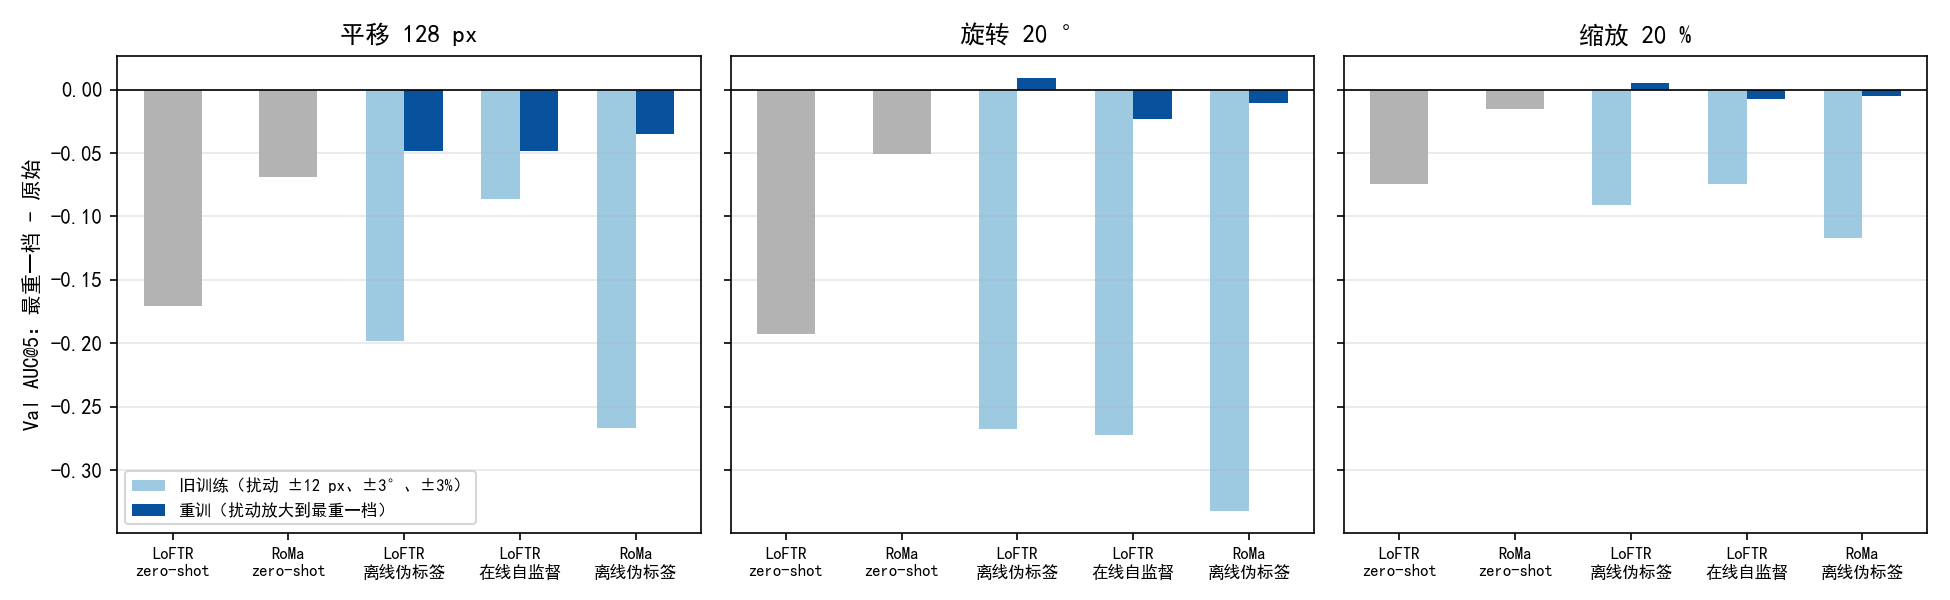
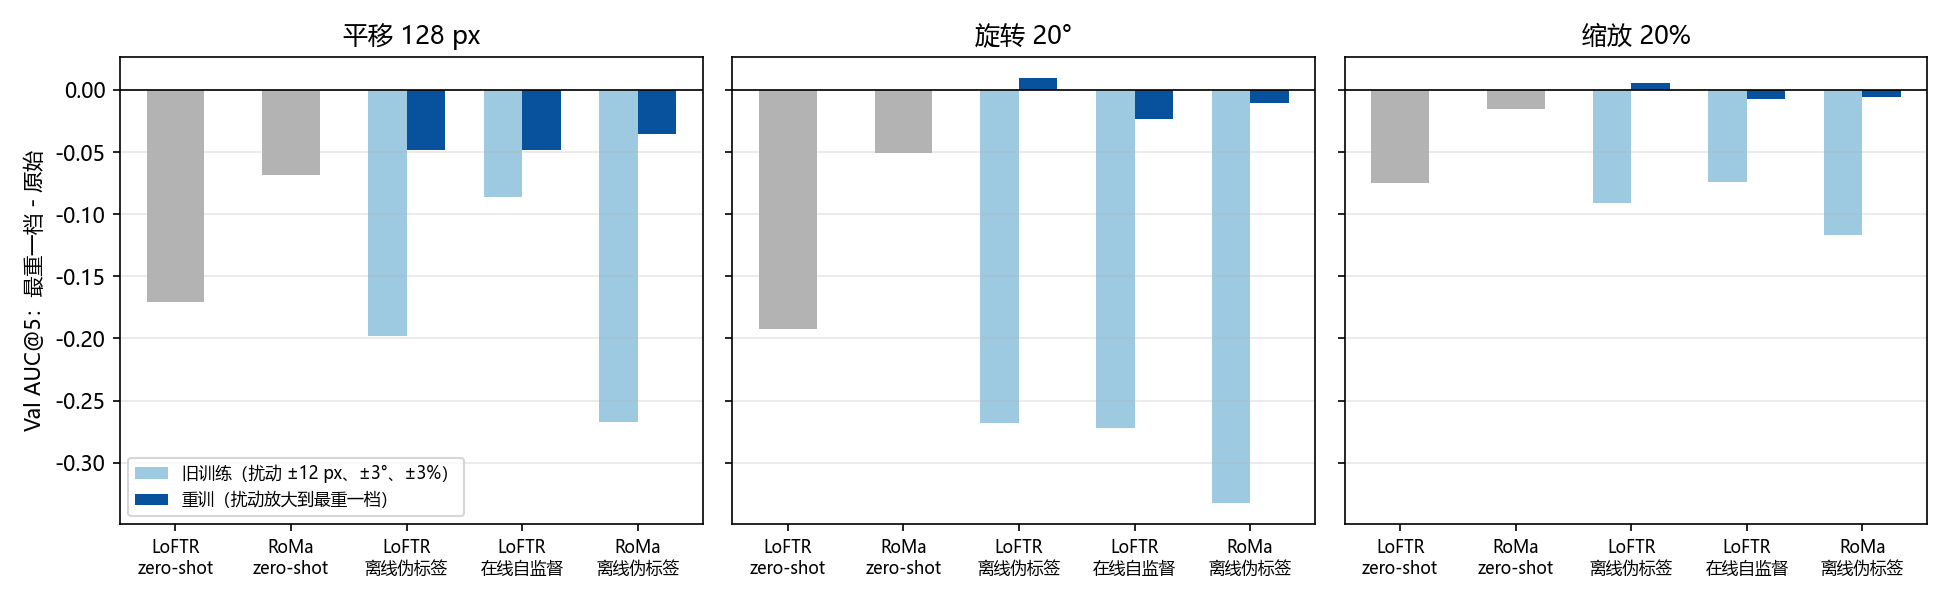
E9（#159）：修图题的 f-string（旧 Python 不支持嵌套引号）；两张图本地渲染（服务器没有中文字体，数据为服务器提交的 metrics）

diff --git a/runs/E9/code/plot.py b/runs/E9/code/plot.py
@@ -68,7 +68,7 @@ def main():
             x += 1.2
         ax.axhline(0, color="k", lw=0.8)
         ax.set_xticks([t for t, _ in ticks], [s for _, s in ticks], fontsize=8)
-        ax.set_title(f"{name} {vs[-1]}{"" if unit in "°%" else " "}{unit}")
+        ax.set_title(f"{name} {vs[-1]}" + ("" if unit in "°%" else " ") + unit)
         ax.grid(axis="y", alpha=0.3)
     axs[0].set_ylabel("Val AUC@5：最重一档 - 原始")
     axs[0].legend(loc="lower left", fontsize=8)
